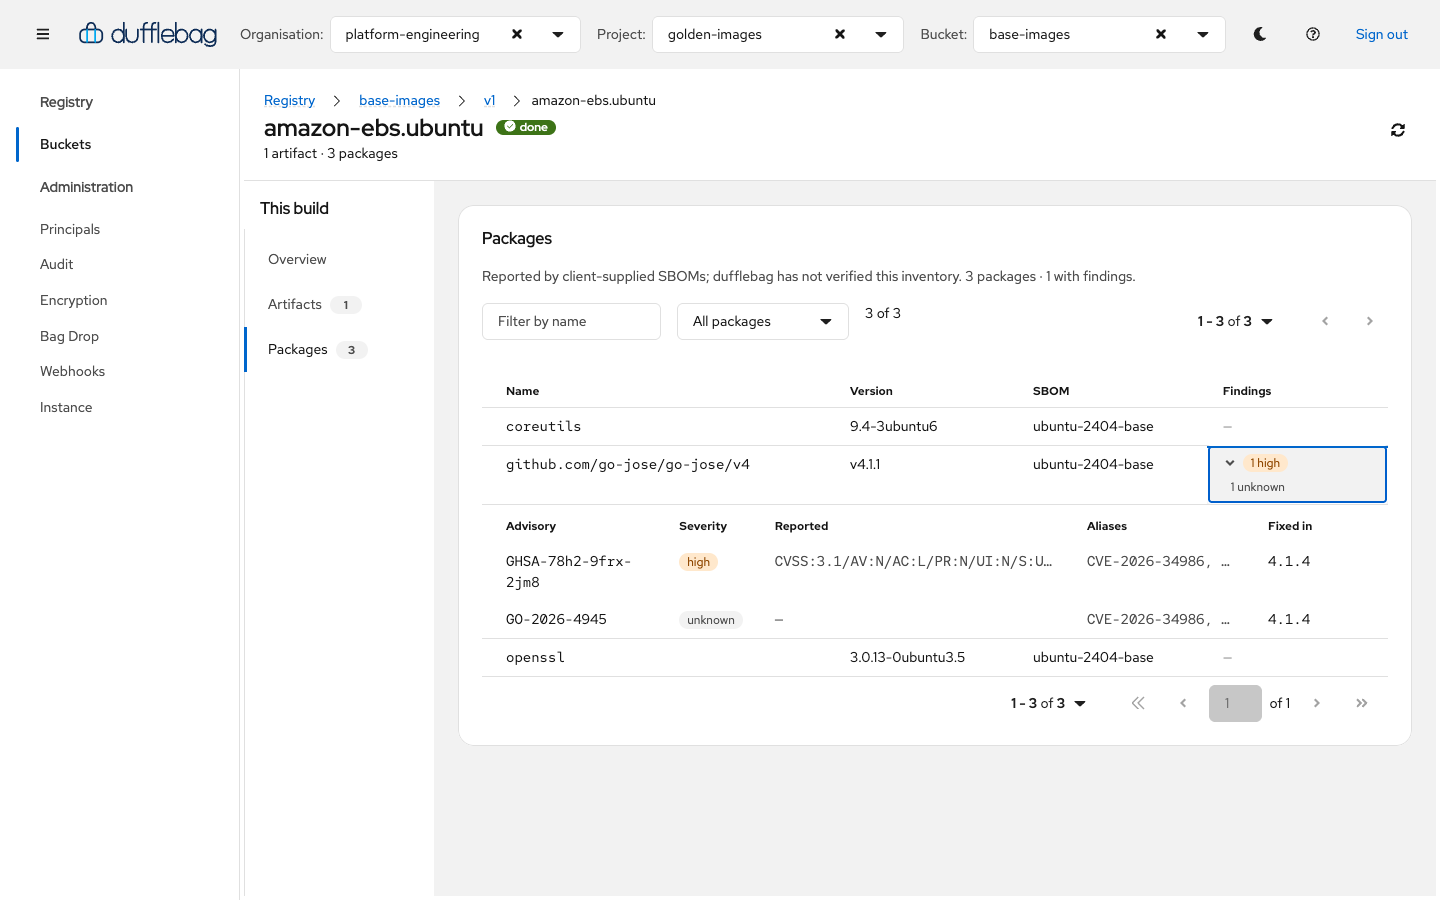
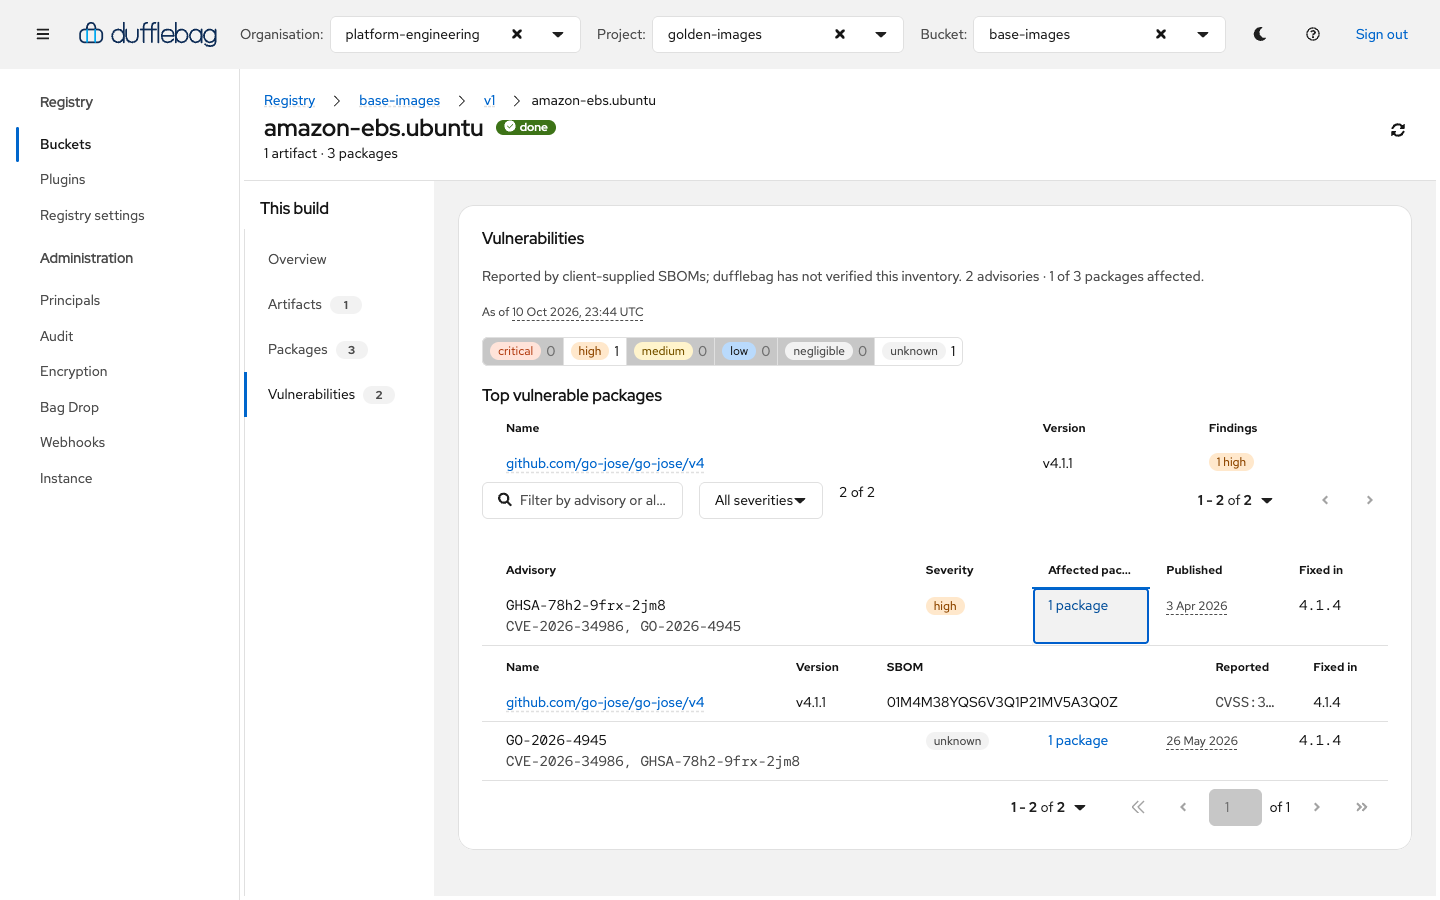
docs: capture the findings frame from the Vulnerabilities facet
Package rows list their findings as links since the findings rework, so
the expandable rows are the advisories on the Vulnerabilities facet; the
harness expands the first one there and the guide's caption says so.
The sign-in steps wait for the form before typing: the heading lands
first after a sign-out.

diff --git a/docs-site/operations/builds.md b/docs-site/operations/builds.md
@@ -116,7 +116,7 @@ Only a current successful scan produces findings, including an empty
 findings list when the scan found nothing. A newer failed scan does not
 erase the findings from the previous successful run.
 
-![dufflebag build packages tab showing vulnerability findings](/screenshots/scanner-findings.png)
+![dufflebag build vulnerabilities facet with an advisory expanded to its affected packages](/screenshots/scanner-findings.png)
 
 With a scanner configured:
 
